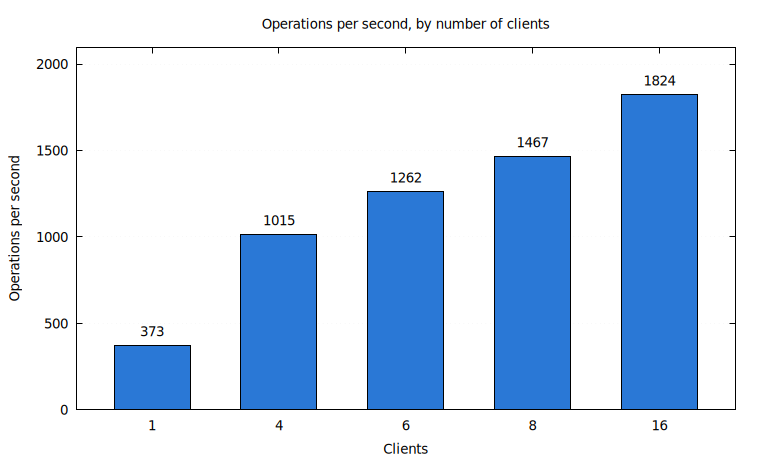
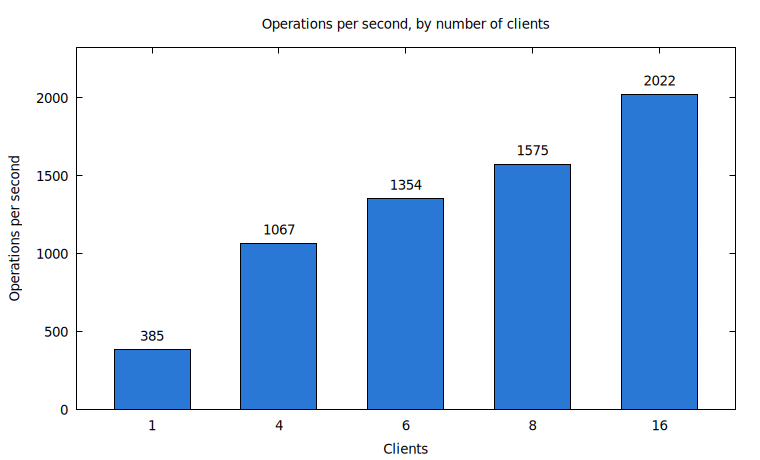
benchmark.md: re-measure the engine at work with 4 scoring permits
Engine bench rerun at ab1b605 (fresh snapshot and replay table built the
documented way; each cell once, 10-minute soak, all 14 cells valid).
16 clients: 2,022 operations per second, search p50 10.5 ms and p99
19.4 ms, get p99 0.51 ms. Charts and engine_latency.md redrawn.

diff --git a/minnal_db/benchmark.md b/minnal_db/benchmark.md
@@ -21,7 +21,7 @@ to other hardware much better than the raw microseconds do.
 | A field-index equality query over 100,000 rows | 0.3–2.0 µs | [Field-index queries](#field-index-queries) |
 | A field-index range query over 100,000 rows | 56–131 µs | [Field-index queries](#field-index-queries) |
 | A semantic search over 5,000 documents | 1.1–4.9 ms, excluding the embedding call | [Semantic search](#semantic-search) |
-| The whole engine under load, 1 to 16 clients | 373 to 1,824 operations per second; searches 4.1 to 13.8 ms at the median; documents searchable 11–22 ms after their write (embeddings replayed, not computed) | [Latency by number of clients](#latency-by-number-of-clients) |
+| The whole engine under load, 1 to 16 clients | 385 to 2,022 operations per second; searches 3.9 to 10.5 ms at the median; documents searchable 11–22 ms after their write (embeddings replayed, not computed) | [Latency by number of clients](#latency-by-number-of-clients) |
 
 The one number that shapes the write path: **a write costs 0.75 ms because it
 waits for the disk to confirm the data is safe** (an fsync). The WAL append
@@ -58,8 +58,8 @@ ran. So more writers mean more writes per fsync, not a queue for the disk.
 | Machine | AMD Ryzen 9 9950X3D (16 cores), 96 GB RAM, NVMe SSD, bare metal |
 | OS | Ubuntu 26.04, Linux 7.0.0-42 |
 | Rust | 1.99.1 |
-| Code | commit `1b7e83e`; [Reads](#reads) at commit `fcf5172` |
-| Date | 2026-10-31 |
+| Code | commit `1b7e83e`; [Reads](#reads) at commit `fcf5172`; [The engine at work](#the-engine-at-work) at commit `ab1b605` |
+| Date | 2026-10-31; the engine at work 2026-11-01 |
 
 To reproduce everything, including the charts:
 
@@ -445,15 +445,15 @@ works, and what it leaves out, follows them.
 
 ### Latency by number of clients
 
-Code at commit `1b7e83e`, on 2026-10-31, on the machine under [Setup](#setup),
+Code at commit `ab1b605`, on 2026-11-01, on the machine under [Setup](#setup),
 with jemalloc as the allocator. Each cell ran once, and the soak lasted
 10 minutes ([What is measured](#what-is-measured) explains both). Every cell
 was valid.
 
 ![Operations per second, by number of clients](docs/benchmarks/engine_throughput.png)
 
-Throughput rises from 373 operations per second with one client to 1,824 with
-16, 4.9 times as many. Throughput times mean latency equals the number of
+Throughput rises from 385 operations per second with one client to 2,022 with
+16, 5.3 times as many. Throughput times mean latency equals the number of
 clients in every cell, as a closed loop requires.
 
 ![Latency of each operation, by number of clients](docs/benchmarks/engine_latency.png)
@@ -465,17 +465,17 @@ p99.9 included, is in [engine_latency.md](docs/benchmarks/engine_latency.md).*
 What the charts show:
 
 - **Reads stay fast.** `get` has a median of 0.02–0.03 ms at every client
-  count; its p99 rises from 0.04 to 0.52 ms. `scan`'s median goes from 1.0 to
-  4.7 ms, and `field_query`'s from 2.4 to 6.8 ms, with a p99 of 11–30 ms.
-- **Searches slow gradually.** The median `search` takes 4.1 ms with one client
-  and 13.8 ms with 16; its p99 goes from 5.0 to 24.8 ms. At most two searches
-  score their candidates at once, each spread over every core, and the others
+  count; its p99 rises from 0.04 to 0.51 ms. `scan`'s median goes from 0.85 to
+  4.9 ms, and `field_query`'s from 2.4 to 7.1 ms, with a p99 of 11–31 ms.
+- **Searches slow gradually.** The median `search` takes 3.9 ms with one client
+  and 10.5 ms with 16; its p99 goes from 4.8 to 19.4 ms. At most four searches
+  score their candidates at once, each spread over the cores, and the others
   wait their turn in order, so a search's time grows with the searches ahead
   of it. `filtered_search` costs more than `search`: 1.0 ms more at the median
-  with one client, 4.7 ms with 16.
+  with one client, 5.0 ms with 16.
 - **Writes share fsyncs.** The median `insert` and `update` take 1.7 ms with
-  one client and 7.5 ms with 16, while the clients write about 420 documents a
-  second between them; `delete` takes 5.0 ms and 13.8 ms. A document write is at
+  one client and 8.2 ms with 16, while the clients write about 465 documents a
+  second between them; `delete` takes 5.0 ms and 14.4 ms. A document write is at
   least two WAL writes (the document, then its entry in the embedding queue),
   and concurrent writes share each fsync. A delete first removes the
   document's vector-index entries, each a durable delete of its own, which is
@@ -484,28 +484,28 @@ What the charts show:
   recorded from the embedding service, so this leaves out the service's own
   time (see [How it runs](#how-it-runs)). The time from a write's
   acknowledgement until its document is searchable has a median of 11 ms
-  with 1 to 8 clients and 22 ms with 16, and a p99 of 12–54 ms. In the 10-minute
-  soak at 4 clients (1,015 operations per second) the median stayed at 11 ms and
-  the indexing backlog at 3 documents. Disk use rose and fell between 320 and
-  455 MiB as garbage collection reclaimed space, with no upward trend, and
-  resident memory held at about 1.5 GiB (0.96 GiB of it the benchmark's replay
+  with 1 to 8 clients and 22 ms with 16, and a p99 of 12–55 ms. In the 10-minute
+  soak at 4 clients (1,054 operations per second) the median stayed at 11 ms and
+  the indexing backlog at 3 documents. Disk use rose and fell between 255 and
+  430 MiB as garbage collection reclaimed space, with no upward trend, and
+  resident memory held at about 1.65 GiB (0.93 GiB of it the benchmark's replay
   table).
 - **Alone against in the mix.** Reads sent alone are faster than the same
-  reads in the 1-client mix (`get` 0.01 against 0.02 ms, `scan` 0.28 against
-  0.99 ms), where they share the machine with searches and indexing. We have not
+  reads in the 1-client mix (`get` 0.01 against 0.02 ms, `scan` 0.26 against
+  0.85 ms), where they share the machine with searches and indexing. We have not
   measured which part of that work slows them. Inserts sent alone are *slower*
   (2.4 against 1.7 ms at the median): a client sending only inserts drove
-  46,000 document writes in 2 minutes 15 seconds, with 151,000 key-value puts
-  across the engine and 820 vector-partition splits as the store grew, against
-  40,500 puts and one split in the 3 minutes 15 seconds of the 1-client mix.
+  45,000 document writes in 2 minutes 15 seconds, with 149,000 key-value puts
+  across the engine and 823 vector-partition splits as the store grew, against
+  42,000 puts and no split in the 3 minutes 15 seconds of the 1-client mix.
 
 Search quality held through the run (nDCG, FiQA test queries):
 
 | | @10 | @20 | @30 | @40 | @50 | @100 |
 |---|---:|---:|---:|---:|---:|---:|
-| Before the run | 0.501 | 0.527 | 0.538 | 0.546 | 0.550 | 0.564 |
-| Under load, concurrent cells | 0.507 | 0.536 | 0.545 | 0.551 | 0.557 | 0.571 |
-| At rest after the run | 0.508 | 0.535 | 0.545 | 0.551 | 0.557 | 0.570 |
+| Before the run | 0.501 | 0.528 | 0.538 | 0.546 | 0.551 | 0.565 |
+| Under load, concurrent cells | 0.508 | 0.536 | 0.545 | 0.552 | 0.556 | 0.570 |
+| At rest after the run | 0.510 | 0.539 | 0.548 | 0.555 | 0.559 | 0.573 |
 
 The store changes during the run (documents are deleted, rewritten and
 inserted), so the rows measure slightly different stores, not only a busier

diff --git a/minnal_db/docs/benchmarks/engine_latency.md b/minnal_db/docs/benchmarks/engine_latency.md
@@ -4,92 +4,92 @@ The figures behind the charts in `benchmark.md` → *Latency by number of client
 
 | Clients | 1 | 4 | 6 | 8 | 16 |
 |---|---:|---:|---:|---:|---:|
-| Operations per second | 373 | 1015 | 1262 | 1467 | 1824 |
+| Operations per second | 385 | 1067 | 1354 | 1575 | 2022 |
 
 **`get`** (ms)
 
 | Clients | p50 | p75 | p90 | p95 | p99 | p99.9 |
 |---:|---:|---:|---:|---:|---:|---:|
 | alone | 0.01 | 0.01 | 0.01 | 0.01 | 0.01 | 0.02 |
-| 1 | 0.02 | 0.03 | 0.03 | 0.03 | 0.04 | 0.05 |
-| 4 | 0.03 | 0.03 | 0.04 | 0.04 | 0.11 | 0.58 |
-| 6 | 0.03 | 0.03 | 0.04 | 0.05 | 0.21 | 0.74 |
-| 8 | 0.03 | 0.04 | 0.05 | 0.06 | 0.27 | 0.81 |
-| 16 | 0.03 | 0.04 | 0.07 | 0.16 | 0.52 | 1.19 |
+| 1 | 0.02 | 0.03 | 0.03 | 0.03 | 0.04 | 0.07 |
+| 4 | 0.03 | 0.03 | 0.04 | 0.04 | 0.10 | 0.60 |
+| 6 | 0.03 | 0.03 | 0.04 | 0.05 | 0.19 | 0.71 |
+| 8 | 0.03 | 0.03 | 0.04 | 0.06 | 0.26 | 0.80 |
+| 16 | 0.03 | 0.04 | 0.07 | 0.16 | 0.51 | 1.22 |
 
 **`scan`** (ms)
 
 | Clients | p50 | p75 | p90 | p95 | p99 | p99.9 |
 |---:|---:|---:|---:|---:|---:|---:|
-| alone | 0.28 | 0.43 | 0.50 | 0.53 | 0.59 | 15.9 |
-| 1 | 0.99 | 1.88 | 2.40 | 2.61 | 2.97 | 3.28 |
-| 4 | 1.99 | 2.79 | 3.50 | 3.92 | 4.77 | 9.34 |
-| 6 | 2.59 | 3.70 | 4.68 | 5.24 | 6.34 | 21.6 |
-| 8 | 3.19 | 4.51 | 5.69 | 6.42 | 7.77 | 13.6 |
-| 16 | 4.68 | 6.61 | 8.55 | 9.72 | 12.2 | 38.7 |
+| alone | 0.26 | 0.32 | 0.49 | 0.52 | 5.91 | 6.79 |
+| 1 | 0.85 | 1.11 | 1.34 | 1.48 | 1.71 | 2.98 |
+| 4 | 1.92 | 2.68 | 3.40 | 3.82 | 4.61 | 10.1 |
+| 6 | 2.62 | 3.78 | 4.72 | 5.29 | 6.48 | 13.5 |
+| 8 | 3.20 | 4.50 | 5.77 | 6.47 | 8.02 | 14.7 |
+| 16 | 4.85 | 7.00 | 9.13 | 10.5 | 14.0 | 25.4 |
 
 **`field_query`** (ms)
 
 | Clients | p50 | p75 | p90 | p95 | p99 | p99.9 |
 |---:|---:|---:|---:|---:|---:|---:|
-| alone | 2.27 | 5.39 | 7.97 | 8.96 | 11.0 | 12.8 |
-| 1 | 2.35 | 5.61 | 8.24 | 9.34 | 11.4 | 13.0 |
-| 4 | 2.97 | 6.70 | 9.61 | 10.9 | 13.8 | 22.6 |
-| 6 | 3.56 | 7.68 | 10.7 | 12.2 | 15.6 | 24.9 |
-| 8 | 4.15 | 8.96 | 12.5 | 14.6 | 19.2 | 29.5 |
-| 16 | 6.84 | 13.0 | 18.5 | 22.3 | 30.5 | 43.9 |
+| alone | 2.24 | 5.35 | 7.93 | 8.93 | 11.0 | 12.9 |
+| 1 | 2.35 | 5.60 | 8.22 | 9.31 | 11.5 | 13.2 |
+| 4 | 2.85 | 6.54 | 9.41 | 10.6 | 13.3 | 22.8 |
+| 6 | 3.39 | 7.38 | 10.4 | 11.8 | 15.2 | 24.3 |
+| 8 | 3.92 | 8.58 | 12.0 | 13.9 | 18.5 | 28.2 |
+| 16 | 7.06 | 13.2 | 18.8 | 22.6 | 31.1 | 43.6 |
 
 **`search`** (ms)
 
 | Clients | p50 | p75 | p90 | p95 | p99 | p99.9 |
 |---:|---:|---:|---:|---:|---:|---:|
-| alone | 4.04 | 4.15 | 4.27 | 4.35 | 4.56 | 5.32 |
-| 1 | 4.12 | 4.33 | 4.53 | 4.65 | 4.96 | 5.85 |
-| 4 | 5.73 | 6.35 | 7.04 | 7.50 | 8.43 | 9.81 |
-| 6 | 7.04 | 8.06 | 9.10 | 9.76 | 11.0 | 12.5 |
-| 8 | 7.88 | 9.30 | 10.7 | 11.6 | 13.2 | 15.2 |
-| 16 | 13.8 | 17.1 | 20.1 | 21.7 | 24.8 | 28.7 |
+| alone | 3.63 | 3.73 | 3.84 | 3.92 | 4.17 | 5.08 |
+| 1 | 3.91 | 4.11 | 4.30 | 4.43 | 4.77 | 6.36 |
+| 4 | 5.26 | 5.76 | 6.28 | 6.63 | 7.46 | 8.95 |
+| 6 | 6.21 | 6.92 | 7.62 | 8.09 | 9.12 | 10.8 |
+| 8 | 6.92 | 7.83 | 8.77 | 9.36 | 10.6 | 12.4 |
+| 16 | 10.5 | 12.9 | 15.2 | 16.6 | 19.4 | 23.1 |
 
 **`filtered_search`** (ms)
 
 | Clients | p50 | p75 | p90 | p95 | p99 | p99.9 |
 |---:|---:|---:|---:|---:|---:|---:|
-| alone | 4.85 | 6.17 | 6.92 | 7.19 | 7.58 | 8.06 |
-| 1 | 5.11 | 6.44 | 7.22 | 7.52 | 7.96 | 8.76 |
-| 4 | 7.09 | 8.68 | 9.88 | 10.7 | 13.0 | 18.9 |
-| 6 | 8.85 | 10.7 | 12.4 | 13.6 | 16.8 | 28.9 |
-| 8 | 10.2 | 12.6 | 15.0 | 16.6 | 20.7 | 28.3 |
-| 16 | 18.5 | 22.8 | 27.2 | 30.2 | 37.3 | 46.8 |
+| alone | 4.55 | 5.84 | 6.58 | 6.86 | 7.22 | 7.93 |
+| 1 | 4.89 | 6.22 | 7.03 | 7.29 | 7.79 | 9.21 |
+| 4 | 6.61 | 8.09 | 9.24 | 9.92 | 12.4 | 18.6 |
+| 6 | 7.84 | 9.56 | 11.1 | 12.2 | 15.3 | 22.3 |
+| 8 | 9.08 | 11.1 | 13.2 | 14.9 | 18.9 | 28.9 |
+| 16 | 15.5 | 19.4 | 24.0 | 27.3 | 34.0 | 43.6 |
 
 **`insert`** (ms)
 
 | Clients | p50 | p75 | p90 | p95 | p99 | p99.9 |
 |---:|---:|---:|---:|---:|---:|---:|
-| alone | 2.38 | 3.08 | 4.45 | 5.34 | 8.54 | 27.1 |
-| 1 | 1.71 | 2.25 | 2.45 | 2.66 | 5.62 | 20.4 |
-| 4 | 2.90 | 4.20 | 7.22 | 8.92 | 11.7 | 29.2 |
-| 6 | 3.31 | 5.82 | 8.61 | 10.1 | 13.6 | 33.8 |
-| 8 | 4.32 | 7.46 | 10.3 | 11.8 | 16.4 | 31.3 |
-| 16 | 7.56 | 11.1 | 14.1 | 16.3 | 23.0 | 38.8 |
+| alone | 2.37 | 3.22 | 4.53 | 5.61 | 9.03 | 28.2 |
+| 1 | 1.71 | 2.29 | 2.44 | 2.63 | 5.98 | 18.7 |
+| 4 | 2.88 | 4.19 | 7.05 | 8.79 | 11.6 | 27.8 |
+| 6 | 3.33 | 5.86 | 8.55 | 9.94 | 13.2 | 27.9 |
+| 8 | 4.40 | 7.35 | 10.1 | 11.4 | 14.9 | 30.3 |
+| 16 | 8.19 | 11.5 | 14.4 | 16.6 | 22.9 | 37.7 |
 
 **`update`** (ms)
 
 | Clients | p50 | p75 | p90 | p95 | p99 | p99.9 |
 |---:|---:|---:|---:|---:|---:|---:|
-| alone | 2.02 | 2.35 | 2.85 | 2.92 | 6.12 | 24.3 |
-| 1 | 1.73 | 2.26 | 2.44 | 2.62 | 5.10 | 21.5 |
-| 4 | 2.91 | 4.20 | 7.13 | 8.82 | 11.7 | 28.2 |
-| 6 | 3.30 | 5.86 | 8.71 | 10.2 | 13.8 | 28.8 |
-| 8 | 4.30 | 7.30 | 10.2 | 11.7 | 15.2 | 28.5 |
-| 16 | 7.49 | 11.1 | 14.0 | 16.2 | 22.9 | 40.5 |
+| alone | 2.03 | 2.36 | 2.86 | 3.04 | 6.67 | 24.5 |
+| 1 | 1.74 | 2.32 | 2.46 | 2.73 | 5.57 | 22.7 |
+| 4 | 2.89 | 4.30 | 7.25 | 8.83 | 11.7 | 27.0 |
+| 6 | 3.37 | 5.92 | 8.64 | 10.0 | 13.3 | 30.7 |
+| 8 | 4.46 | 7.40 | 10.1 | 11.5 | 15.7 | 29.8 |
+| 16 | 8.18 | 11.6 | 14.5 | 16.6 | 23.1 | 39.3 |
 
 **`delete`** (ms)
 
 | Clients | p50 | p75 | p90 | p95 | p99 | p99.9 |
 |---:|---:|---:|---:|---:|---:|---:|
-| alone | 5.22 | 6.12 | 7.67 | 9.17 | 16.4 | 31.5 |
-| 1 | 4.96 | 5.94 | 7.31 | 8.94 | 17.8 | 28.4 |
-| 4 | 8.24 | 10.7 | 14.1 | 17.1 | 30.7 | 58.0 |
-| 6 | 9.24 | 12.2 | 15.8 | 18.9 | 33.2 | 69.9 |
-| 8 | 10.3 | 13.6 | 17.4 | 20.6 | 33.1 | 57.2 |
-| 16 | 13.8 | 18.0 | 22.6 | 26.6 | 41.4 | 85.3 |
+| alone | 5.27 | 6.22 | 7.78 | 9.52 | 17.6 | 32.1 |
+| 1 | 4.99 | 5.94 | 7.45 | 9.21 | 18.4 | 28.2 |
+| 4 | 8.16 | 10.6 | 14.1 | 17.1 | 30.5 | 64.3 |
+| 6 | 9.35 | 12.4 | 15.9 | 19.3 | 33.1 | 73.0 |
+| 8 | 10.6 | 13.9 | 17.7 | 21.0 | 33.6 | 57.8 |
+| 16 | 14.4 | 18.6 | 23.3 | 27.6 | 43.5 | 123 |
